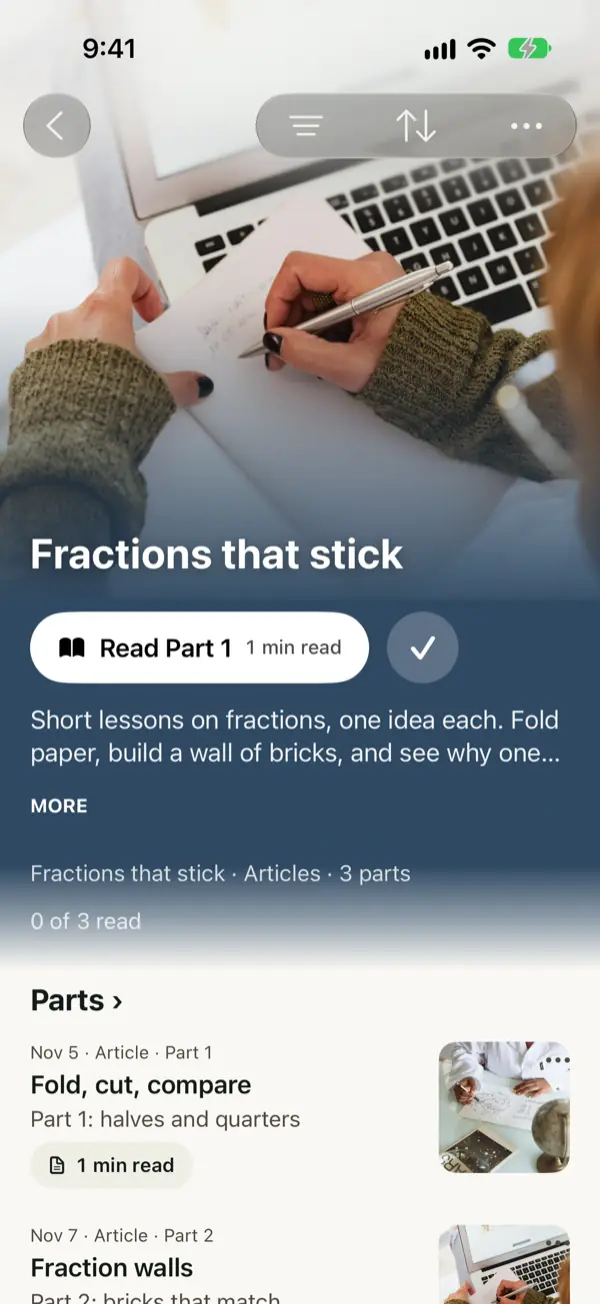
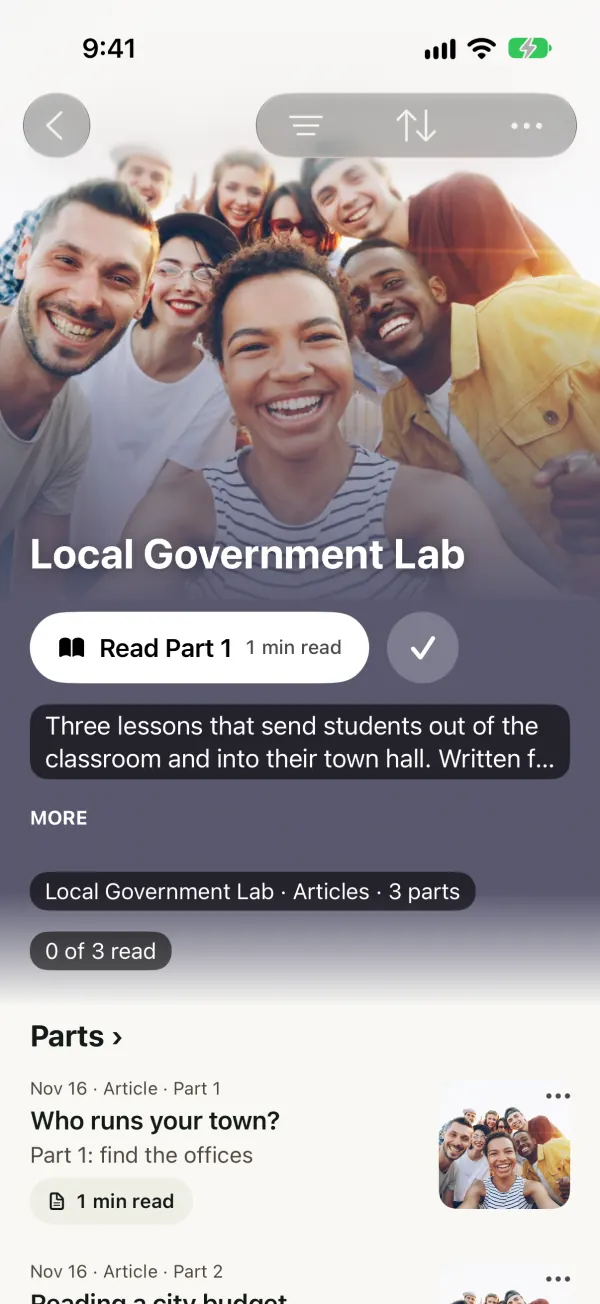
feat(site): board members and the new cast in the jam demo
Dr. Okome and Rich Calton appear only as authors of their own real work (exact titles, real links); the rest is invented. The feed gains a fourth screen; every jam state re-shot and re-measured. Debug-only seeds (checked: nothing in the Release binary).

Brief: LIME-347

diff --git a/ios/Lime/App/ConversationStore+SiteJamDemo.swift b/ios/Lime/App/ConversationStore+SiteJamDemo.swift
@@ -2,7 +2,7 @@
 import Foundation
 import UIKit
 
-/// Demo mode (the website's jam phone, LIME-286r2): Maya follows three teachers and a band, with covers, a series, two podcasts and a members-only post.
+/// Demo mode (the website's jam phone, LIME-286r2, 347): Maya follows invented teachers, two real board members (as the authors of their own real work only) and a band, with covers, a series, two podcasts and a members-only post.
 /// Cover photos are read from a folder named by `-lime-demo-covers <dir>` (`<dir>/<name>.jpg`); without it the posts have no cover.
 extension ConversationStore {
     func demoSiteJam(screen: String) {
@@ -41,43 +41,74 @@ extension ConversationStore {
         }
         func fractions(_ part: UInt32) -> SeriesInfo { SeriesInfo(id: "site-series-fractions", title: "Fractions that stick", part: part, of: 3) }
 
-        // Sam: a three-part series and a podcast.
-        let sam = jam("site-sam-jam", writer: "sam", "Fractions that stick", "Short lessons for grades 3 to 5", ["Maths", "Grade 4"])
-        demoJamPages["sam"] = sam
-        add("site-sam-1", "site-sam-jam", "sam", "article", "Fold, cut, compare", "Part 1: halves and quarters", "We started with a strip of paper. **Fold it in half**, then in half again, and ask: what do you notice?\n\nBy the end of the lesson every pair could say why two quarters make a half.", ago: 3_000, cover: "fold", series: fractions(1))
-        add("site-sam-2", "site-sam-jam", "sam", "article", "Fraction walls", "Part 2: bricks that match", "Build a wall of bricks, one row for each fraction, and slide them side by side.\n\nThe question that does the teaching: *which rows line up?*", ago: 200, cover: "walls", series: fractions(2))
-        add("site-sam-3", "site-sam-jam", "sam", "article", "Comparing with benchmarks", "Part 3: more or less than a half?", "Is it more or less than a half? Start there, then ask how you know.", ago: 5_000, series: fractions(3))
-        add("site-sam-pod", "site-sam-jam", "sam", "record", "Sunday planning, with Sam", "Week 4, in 18 minutes", "How we plan a week of reading circles.", ago: 400, cover: "planning", audioMs: 1_080_000)
+        // The two board members appear only as the authors of their own real work: real titles, real addresses, nothing written for them (LIME-347).
+        func link(_ postID: String, _ n: Int, title: String, url: String, site: String, poster: String?) -> JamAttachmentInfo {
+            let id = "\(postID)-link\(n)"
+            Self.demoJamBlobs[id] = (try? JSONEncoder().encode(JamLink.Payload(url: url, title: title, site: site))) ?? Data()
+            return JamAttachmentInfo(attachmentId: id, name: title, mime: JamLink.mime, kind: "file", size: 200, width: nil, height: nil, durationMs: nil, thumb: Data(), poster: poster.flatMap(photo) ?? Data(), available: true)
+        }
+        publicProfiles["okome"] = PublicProfile(userId: "okome", displayName: "Dr. Mojúbàolú Olúfúnké Okome", username: "okome", school: nil, aboutEmoji: nil, aboutText: nil, since: nil, hasJam: false)
+        publicProfiles["calton"] = PublicProfile(userId: "calton", displayName: "Rich Calton", username: "rich.calton", school: nil, aboutEmoji: nil, aboutText: nil, since: nil, hasJam: false)
+        _ = jam("site-irin-band", writer: "okome", "Ìrìnkèrindò: a Journal of African Migration", "", ["Migration"], band: true)
+        add("site-okome-1", "site-irin-band", "okome", "quick", "", "", "Ìrìnkèrindò: a Journal of African Migration — https://africamigration.com/", ago: 45, displayAs: "jam")
+        demoJamAttachments["site-okome-1"] = [
+            link("site-okome-1", 1, title: "Women, Water, and Migration In Africa", url: "https://africamigration.com/", site: "africamigration.com", poster: "water"),
+            link("site-okome-1", 2, title: "African Immigrant Innovation in 21st Century Giving", url: "https://africamigration.com/", site: "africamigration.com", poster: "giving"),
+            link("site-okome-1", 3, title: "African Diaspora Families & Changing Gender Relations: A Focus on GBV & IPV", url: "https://africamigration.com/", site: "africamigration.com", poster: "families"),
+        ]
+        _ = jam("site-calton-jam", writer: "calton", "Rich Calton", "", [])
+        add("site-calton-1", "site-calton-jam", "calton", "quick", "", "", "The Legacy of HarlemLIVE: Empowering Youth Through Journalism and Experiential Learning, third edition (2026)\n\nFrom 1996 to 2011, teenagers in Harlem ran a real newsroom.", ago: 70)
+        demoJamAttachments["site-calton-1"] = [link("site-calton-1", 1, title: "The Legacy of HarlemLIVE: Empowering Youth Through Journalism and Experiential Learning", url: "https://www.harlemlive.net/publications/", site: "harlemlive.net", poster: nil)]
+
+        // Ms Park: three articles of a series.
+        let park = jam("site-park-jam", writer: "park", "Fractions that stick", "Short lessons for grades 3 to 5", ["Maths", "Grade 4"])
+        demoJamPages["park"] = park
+        publicProfiles["park"] = PublicProfile(userId: "park", displayName: "Ms Park", username: "ms.park", school: nil, aboutEmoji: nil, aboutText: nil, since: nil, hasJam: false)
+        add("site-park-1", "site-park-jam", "park", "article", "Fold, cut, compare", "Part 1: halves and quarters", "We started with a strip of paper. **Fold it in half**, then in half again, and ask: what do you notice?\n\nBy the end of the lesson every pair could say why two quarters make a half.", ago: 3_000, cover: "fold", series: fractions(1))
+        add("site-park-2", "site-park-jam", "park", "article", "Fraction walls", "Part 2: bricks that match", "Build a wall of bricks, one row for each fraction, and slide them side by side.\n\nThe question that does the teaching: *which rows line up?*", ago: 320, cover: "walls", series: fractions(2))
+        add("site-park-3", "site-park-jam", "park", "article", "Comparing with benchmarks", "Part 3: more or less than a half?", "Is it more or less than a half? Start there, then ask how you know.", ago: 5_000, series: fractions(3))
         let seriesCover = photo("walls")
         seriesMetas["site-series-fractions"] = SeriesMeta(seriesId: "site-series-fractions", title: "Fractions that stick", description: "Short lessons on fractions, one idea each. Fold paper, build a wall of bricks, and see why one half is bigger than one third. Written for grades 3 to 5, and good to read aloud.", cover: seriesCover)
         seriesCovers["site-series-fractions"] = seriesCover
 
-        // Priya and Lee.
-        _ = jam("site-priya-jam", writer: "priya.nair", "Practice, not homework", "Ten minutes a child chooses", ["Practice"])
-        add("site-priya-1", "site-priya-jam", "priya.nair", "quick", "", "", "An exit ticket that takes a minute: ask one question at the door, *which pieces are equal?*", ago: 60)
-        add("site-priya-2", "site-priya-jam", "priya.nair", "article", "Why we stopped giving homework", "What we do instead", "We swapped it for ten minutes of practice a child chooses.\n\nThe rule that helped most: **everyone picks their own**.", ago: 700, cover: "circles")
-        _ = jam("site-lee-jam", writer: "lee", "Reading circles", "What worked in my room", ["Reading", "Grade 3"])
-        add("site-lee-pod", "site-lee-jam", "lee", "record", "Songs for the circle", "Korean children's songs", "Three songs we sing before a book.", ago: 900, cover: "songs", audioMs: 43_000)
+        // Luis Ortega: a three-part series, "Local Government Lab".
+        func lab(_ part: UInt32) -> SeriesInfo { SeriesInfo(id: "site-series-lab", title: "Local Government Lab", part: part, of: 3) }
+        _ = jam("site-luis-jam", writer: "luis", "Local Government Lab", "Civics you can try in town", ["Civics", "Grade 11"])
+        add("site-luis-1", "site-luis-jam", "luis", "article", "Who runs your town?", "Part 1: find the offices", "Start with a map and a phone. Ask each pair to find **three offices** in their town and what each one decides.\n\nThe question that does the teaching: *who could fix this pothole?*", ago: 1_400, cover: "civics", series: lab(1))
+        add("site-luis-2", "site-luis-jam", "luis", "article", "Reading a city budget", "Part 2: where the money goes", "Give every group one page of the budget and one colour pen. **Circle what surprises you.**\n\nThen compare: which line would you cut, and who would feel it?", ago: 200, cover: "civics", series: lab(2))
+        add("site-luis-3", "site-luis-jam", "luis", "article", "Going to a council meeting", "Part 3: speak for two minutes", "Two minutes at the microphone is a skill. Practise it in class first.", ago: 6_000, series: lab(3))
+        let labCover = photo("civics")
+        seriesMetas["site-series-lab"] = SeriesMeta(seriesId: "site-series-lab", title: "Local Government Lab", description: "Three lessons that send students out of the classroom and into their town hall. Written for high-school civics.", cover: labCover)
+        seriesCovers["site-series-lab"] = labCover
 
-        // The band: Science Corner, written by Mei, with a cover photo, a picture and members.
-        let science = jam("site-sci-band", writer: "mei", "Science Corner", "Experiments and ideas from teachers who love science", ["Science"], band: true)
-        add("site-sci-1", "site-sci-band", "mei", "article", "Moon phases with a lamp", "A twenty-minute model", "A lamp, a ball and a dark room: ten minutes to **see why the moon changes**.\n\nLet every pair hold the ball once.", ago: 20, cover: "science", figure: "fold", displayAs: "jam")
-        add("site-sci-2", "site-sci-band", "mei", "article", "Our term plan", "Lab sheets, for members", "The full term plan, with the lab sheets.", ago: 240, cover: "members", members: true, displayAs: "jam")
-        add("site-sci-3", "site-sci-band", "mei", "quick", "", "", "Thursday lab: bring the magnets.", ago: 500, displayAs: "jam")
+        // Mrs Flowers, Dr Nwosu's podcast and Kofi Mensah.
+        _ = jam("site-flowers-jam", writer: "flowers", "Practice, not homework", "Ten minutes a child chooses", ["Practice"])
+        publicProfiles["flowers"] = PublicProfile(userId: "flowers", displayName: "Mrs Flowers", username: "mrs.flowers", school: nil, aboutEmoji: nil, aboutText: nil, since: nil, hasJam: false)
+        add("site-flowers-1", "site-flowers-jam", "flowers", "quick", "", "", "An exit ticket that takes a minute: ask one question at the door, *which pieces are equal?*", ago: 110)
+        add("site-flowers-2", "site-flowers-jam", "flowers", "article", "Why we stopped giving homework", "What we do instead", "We swapped it for ten minutes of practice a child chooses.\n\nThe rule that helped most: **everyone picks their own**.", ago: 700, cover: "circles")
+        _ = jam("site-adaeze-jam", writer: "adaeze", "Lab Notes", "Chemistry for first-year students", ["Chemistry"])
+        add("site-adaeze-pod", "site-adaeze-jam", "adaeze", "record", "Why the balloon shrinks", "Gas laws in 14 minutes", "How I teach the gas laws in a community-college lab.", ago: 400, cover: "labnotes", audioMs: 840_000)
+        _ = jam("site-kofi-jam", writer: "kofi", "Read-aloud night", "What families asked for", ["Literacy"])
+        add("site-kofi-pod", "site-kofi-jam", "kofi", "record", "Ten books families asked for", "Family literacy night", "Three minutes on the books that went home with the most families.", ago: 900, cover: "readaloud", audioMs: 190_000)
+
+        // The band: Science Corner, written by Dr Nwosu, with a cover photo, a picture and members.
+        let science = jam("site-sci-band", writer: "adaeze", "Science Corner", "Experiments and ideas from teachers who love science", ["Science"], band: true)
+        add("site-sci-1", "site-sci-band", "adaeze", "article", "Moon phases with a lamp", "A twenty-minute model", "A lamp, a ball and a dark room: ten minutes to **see why the moon changes**.\n\nLet every pair hold the ball once.", ago: 20, cover: "science", figure: "fold", displayAs: "jam")
+        add("site-sci-2", "site-sci-band", "adaeze", "article", "Our term plan", "Lab sheets, for members", "The full term plan, with the lab sheets.", ago: 240, cover: "members", members: true, displayAs: "jam")
+        add("site-sci-3", "site-sci-band", "adaeze", "quick", "", "", "Thursday lab: bring the magnets.", ago: 500, displayAs: "jam")
         AvatarCache.shared.set(photo("band"), for: Self.jamCoverKey("site-sci-band"))
         AvatarCache.shared.set(photo("bandpic"), for: Self.jamPictureKey("site-sci-band"))
-        orgs = [OrgInfo(jamId: "site-sci-band", conversationId: "grp:site-sci", writerId: "mei", name: "Science Corner", myRole: "member", memberCount: 5)]
+        orgs = [OrgInfo(jamId: "site-sci-band", conversationId: "grp:site-sci", writerId: "adaeze", name: "Science Corner", myRole: "member", memberCount: 5)]
         let tone = { (id: String) in UInt32(AvatarTone.tone(for: id)) }
         orgMembersByJam["site-sci-band"] = [
-            OrgMemberInfo(userId: "mei", name: "Mei Lin", tone: tone("mei"), role: "owner", isMe: false, canManage: false),
-            OrgMemberInfo(userId: "lee", name: "Lee Wong", tone: tone("lee"), role: "writer", isMe: false, canManage: false),
+            OrgMemberInfo(userId: "adaeze", name: "Adaeze Nwosu", tone: tone("adaeze"), role: "owner", isMe: false, canManage: false),
+            OrgMemberInfo(userId: "talia", name: "Talia Brooks", tone: tone("talia"), role: "writer", isMe: false, canManage: false),
             OrgMemberInfo(userId: meProvider().id, name: "Maya Ortiz", tone: 6, role: "member", isMe: true, canManage: false),
-            OrgMemberInfo(userId: "priya.nair", name: "Priya Nair", tone: tone("priya.nair"), role: "member", isMe: false, canManage: false),
-            OrgMemberInfo(userId: "sam", name: "Sam Park", tone: tone("sam"), role: "member", isMe: false, canManage: false),
+            OrgMemberInfo(userId: "kofi", name: "Kofi Mensah", tone: tone("kofi"), role: "member", isMe: false, canManage: false),
+            OrgMemberInfo(userId: "park", name: "Ms Park", tone: tone("park"), role: "member", isMe: false, canManage: false),
         ]
         orgGroupsByJam["site-sci-band"] = [OrgGroupInfo(conversationId: "grp:site-science", name: "Lab ideas", open: true, joined: false, mine: false)]
-        publicProfiles["mei"] = PublicProfile(userId: "mei", displayName: "Mei Lin", username: "mei.lin", school: nil, aboutEmoji: nil, aboutText: nil, since: nil, hasJam: false)
-        publicProfiles["priya.nair"] = PublicProfile(userId: "priya.nair", displayName: "Priya Nair", username: "priya.nair", school: nil, aboutEmoji: nil, aboutText: nil, since: nil, hasJam: false)
+        publicProfiles["adaeze"] = PublicProfile(userId: "adaeze", displayName: "Adaeze Nwosu", username: "adaeze.nwosu", school: nil, aboutEmoji: nil, aboutText: nil, since: nil, hasJam: false)
         discoverItems = []
         switch screen {
         case "site-jam-band": jamPath.append(OrgRoute(page: science, isMe: false))
